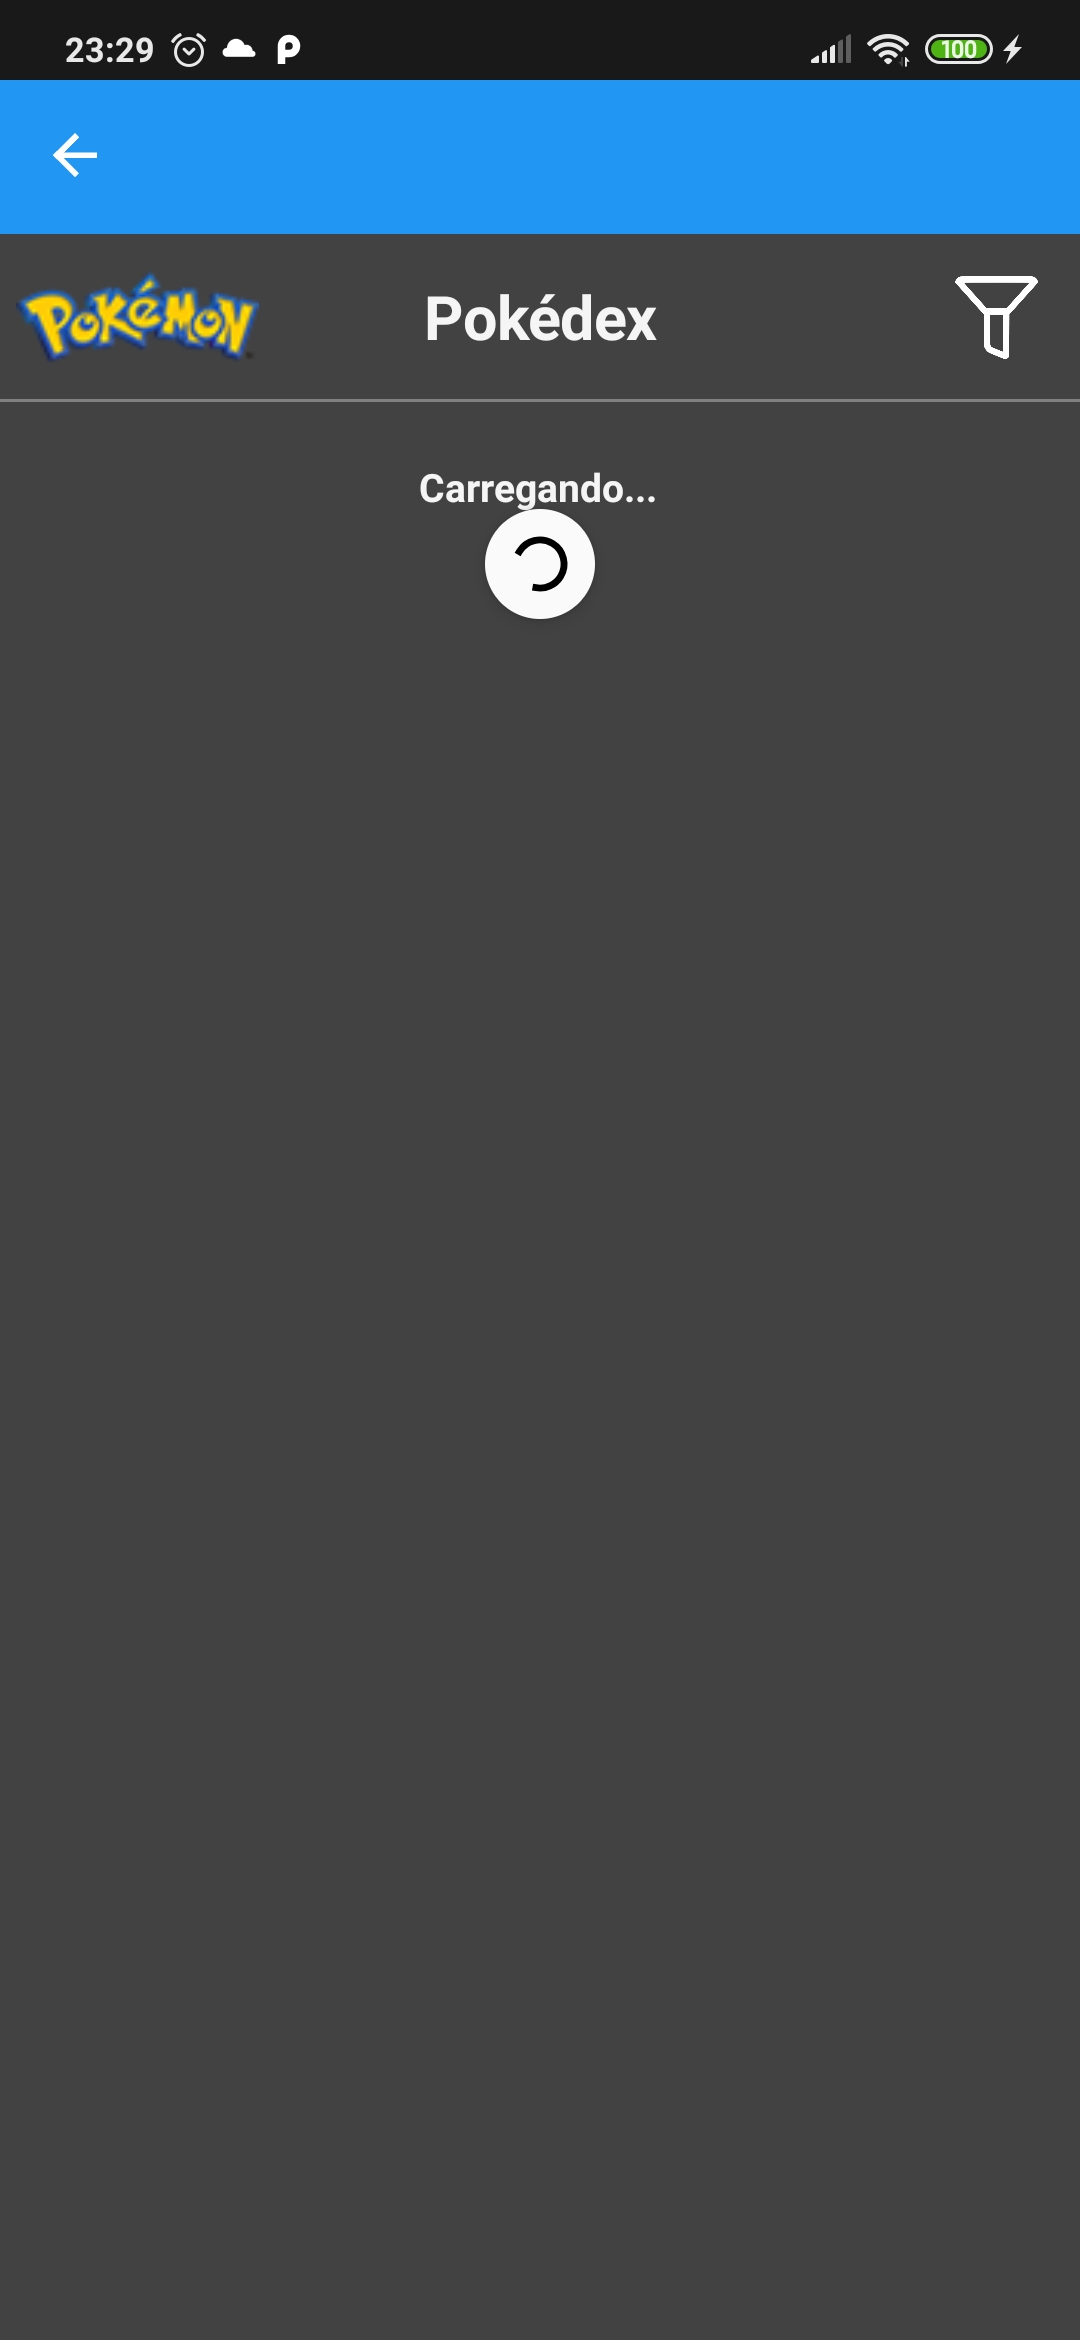
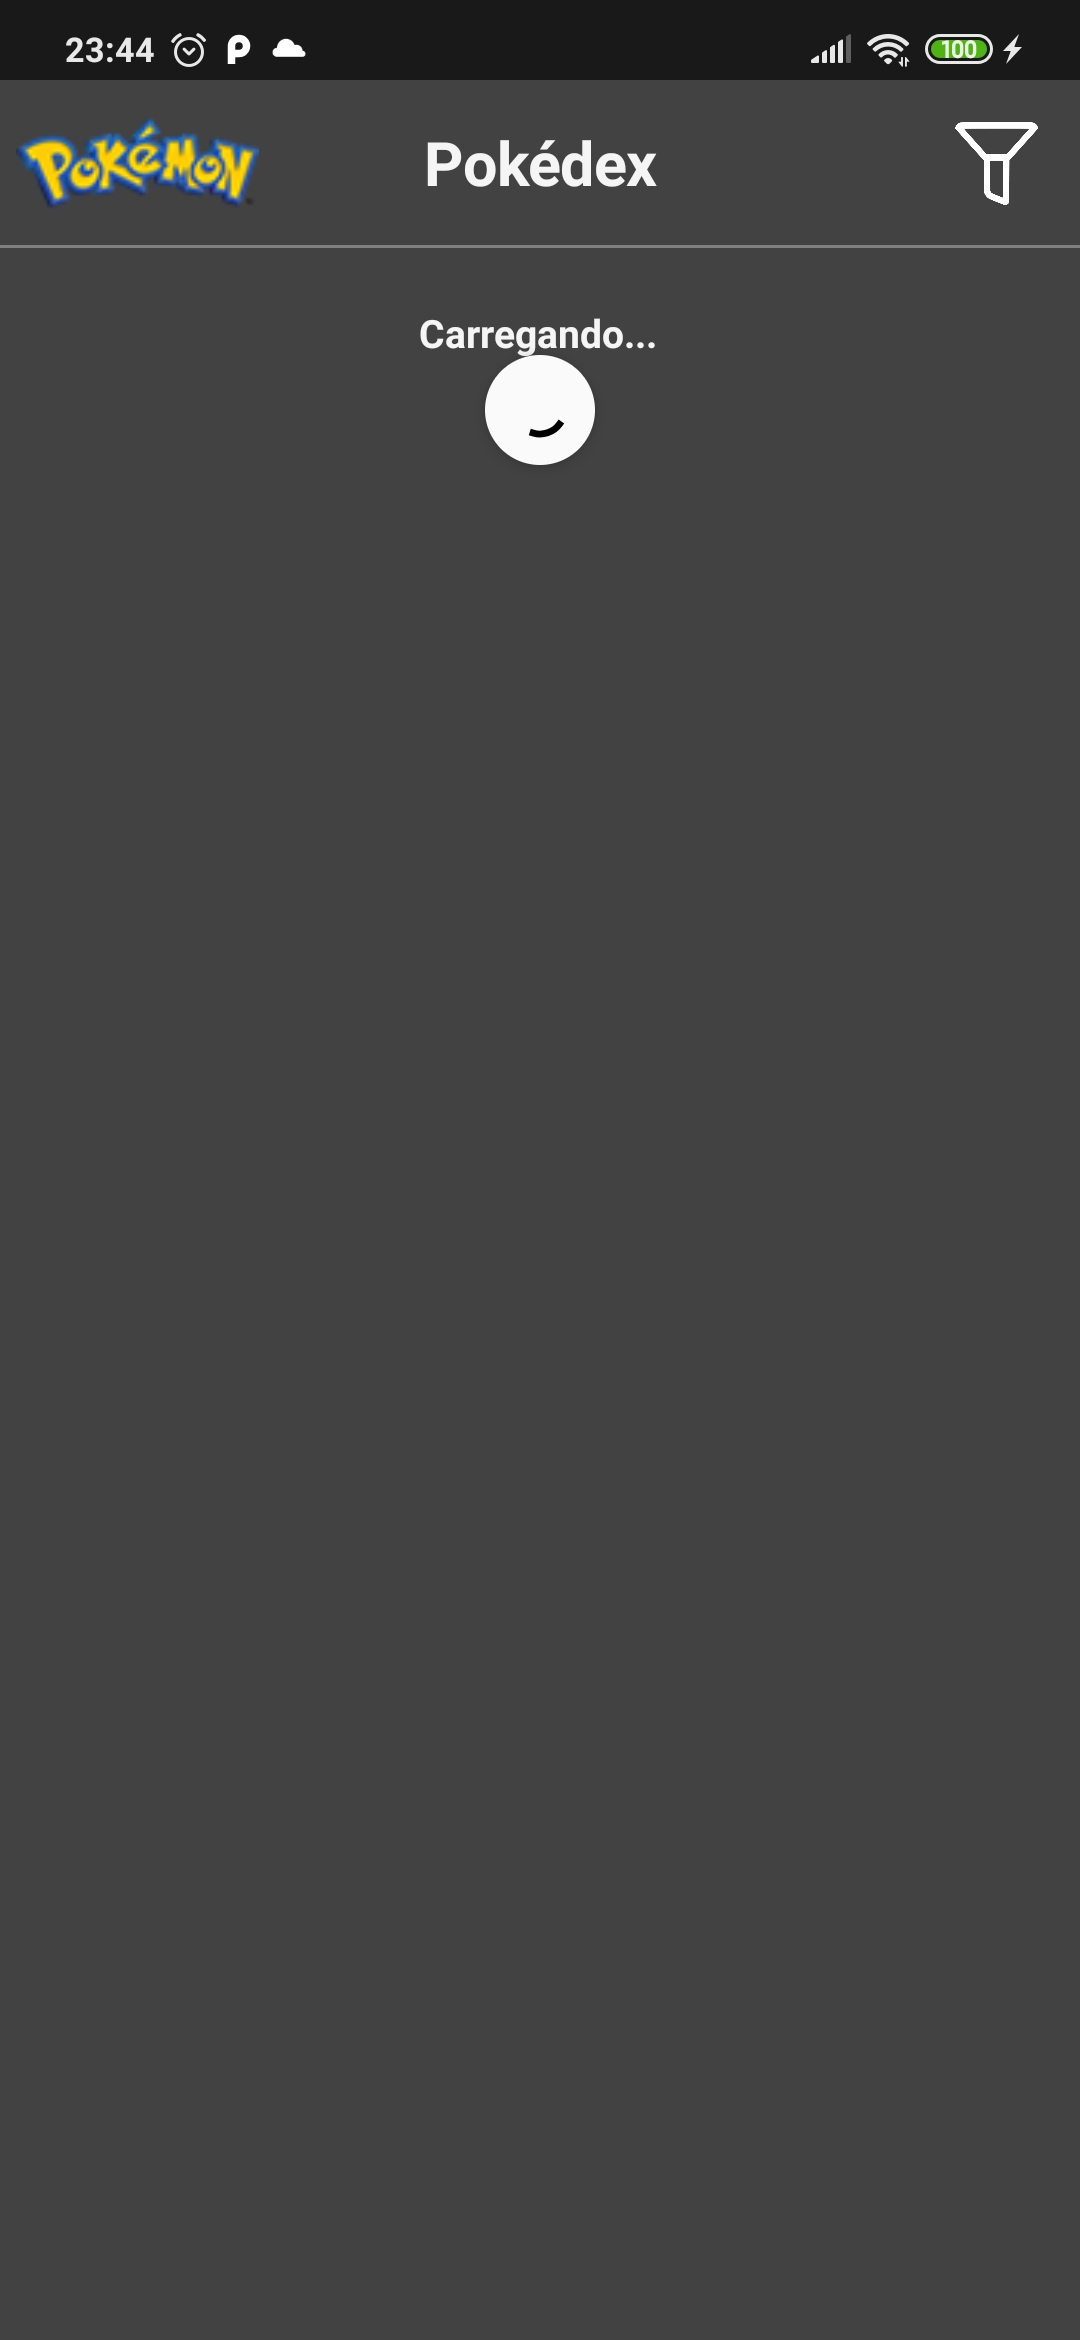
Ajuste de Screenshots

Changed region(s): [[0.0, 0.0, 1.0, 0.2808]]

diff --git a/Fontes/Desafio_DBServer/Desafio_DBServer/Views/ListPokemonView.xaml b/Fontes/Desafio_DBServer/Desafio_DBServer/Views/ListPokemonView.xaml
@@ -8,6 +8,7 @@
              xmlns:scroll="clr-namespace:Xamarin.Forms.Extended;assembly=Xamarin.Forms.Extended.InfiniteScrolling"
              xmlns:behaviors="clr-namespace:Desafio_DBServer.Behaviors"
              x:Class="Desafio_DBServer.Views.ListPokemonView"
+             NavigationPage.HasNavigationBar="False"
              Background="#424242">
 
     <ContentPage.Resources>

diff --git a/README.md b/README.md
@@ -1,1 +1,2 @@
-# Desafio_DbServer
+# Desafio DbServer
+### By William da Silva
